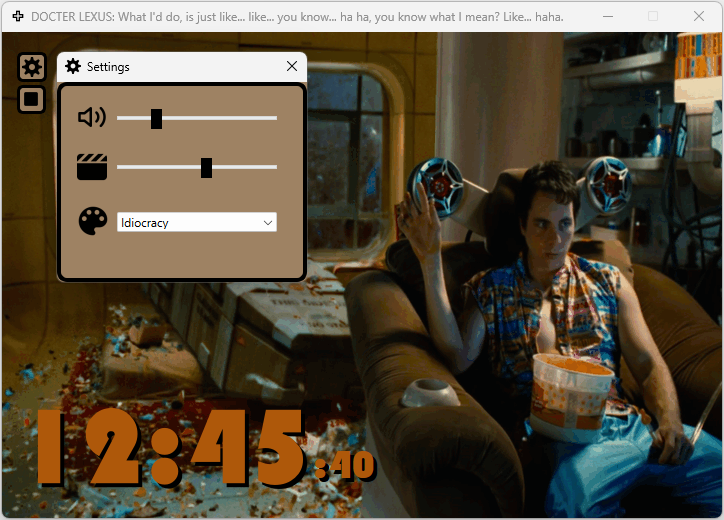
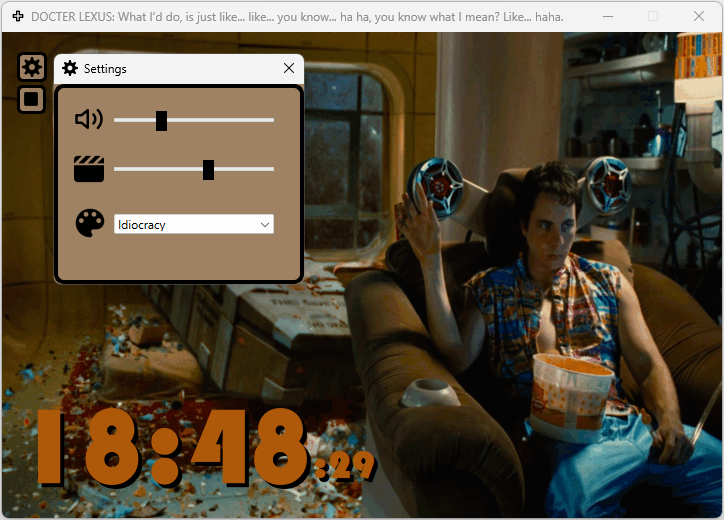
pos. adj.

diff --git a/main_pyqt.py b/main_pyqt.py
@@ -295,8 +295,8 @@ window_settings.setStyleSheet(
 
 
 # SETTINGS WINDOW - POSITION
-window_settings_pos_x = window_main_pos_x + window_width - window_settings_width - window_settings_pos_x_diff
-window_settings_pos_y = window_main_pos_y + 55 - window_settings_pos_y_diff
+window_settings_pos_x = window_main_pos_x + window_settings_pos_x_diff
+window_settings_pos_y = window_main_pos_y + 57 + window_settings_pos_y_diff
 window_settings.move(window_settings_pos_x, window_settings_pos_y)
 
 
